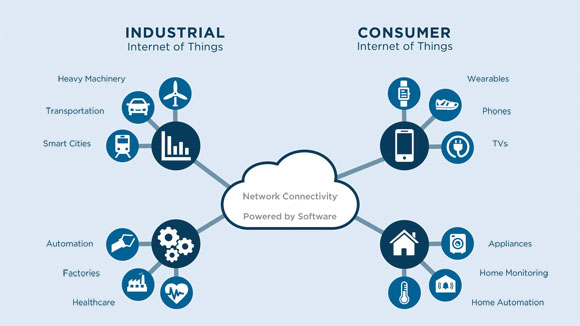
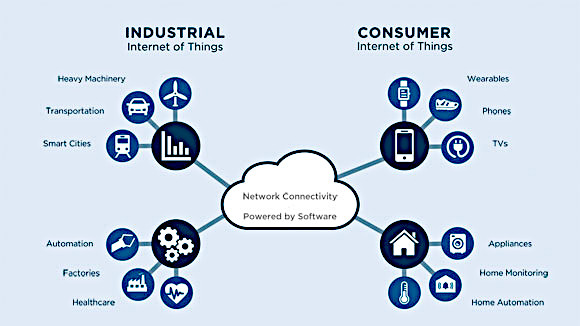
trello board update link

diff --git a/index.html b/index.html
@@ -555,9 +555,7 @@
           <p>Exercise Time!</p>
           <div style="display: flex; justify-content: center">
             <img src="images/exercise.gif" alt="Exercise Gif" width="300" />
-            <a
-              href="https://trello.com/b/YGL1EaPY/template-handle-phase-1-tasks"
-              target="_blank"
+            <a href="https://trello.com/b/YGL1EaPY" target="_blank"
               ><img
                 src="images/trello-logo-blue.png"
                 alt="Trello logo"
@@ -1156,6 +1154,8 @@
               >
             </li>
             <img
+              data-enlargable
+              style="border: 5px solid blue; cursor: zoom-in"
               class="fragment"
               src="images/iot.jpg"
               alt="Internet of things"
